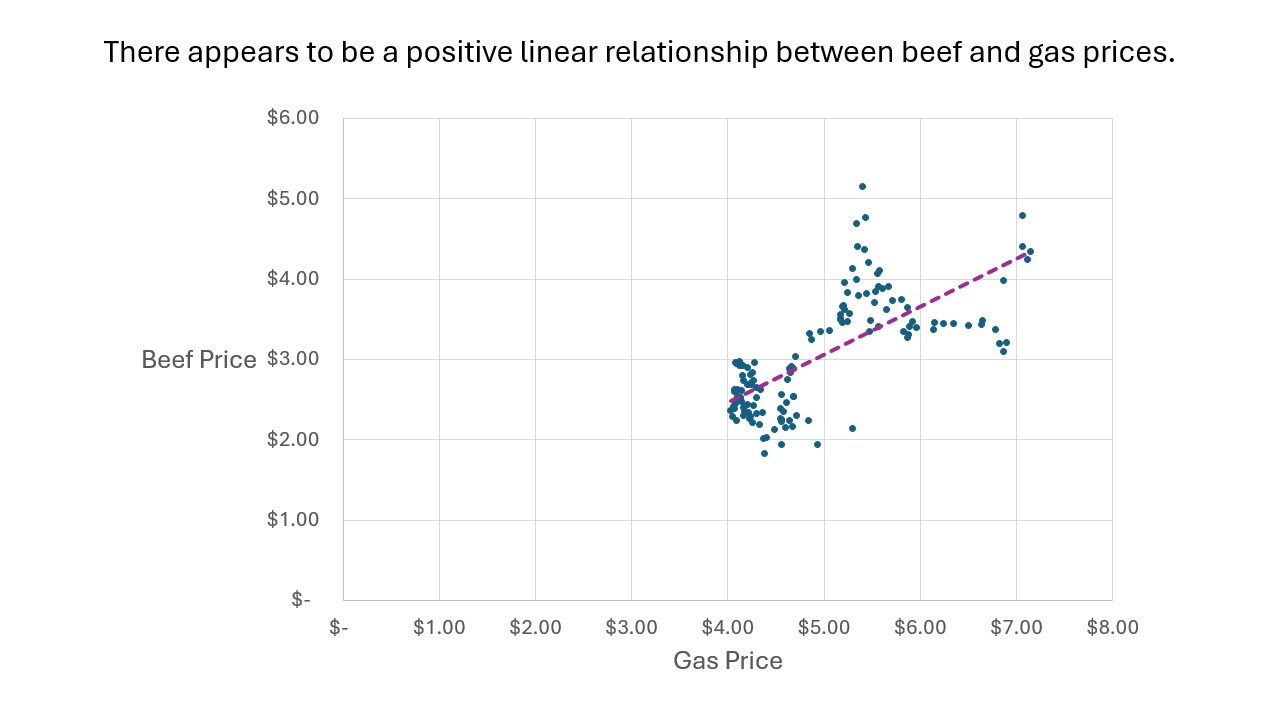
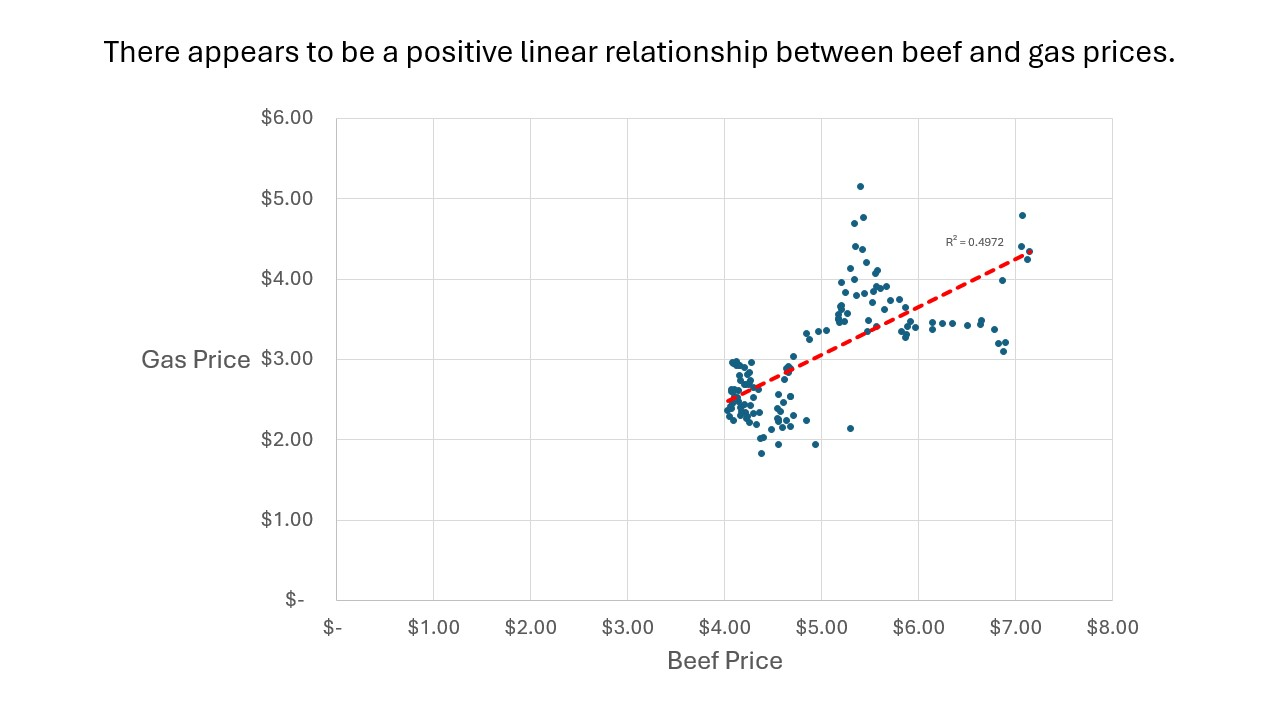
s

diff --git a/docs/posts/Intro to IE Data Analysis Presentation/index.html b/docs/posts/Intro to IE Data Analysis Presentation/index.html
@@ -188,7 +188,7 @@ ul.task-list li input[type="checkbox"] {
 </div>
 <div class="quarto-figure quarto-figure-center">
 <figure class="figure">
-<p><img src="Slide4.jpg" class="img-fluid figure-img"></p>
+<p><img src=".png" class="img-fluid figure-img"></p>
 <figcaption>Does all uncooked ground beef and all types of gas move together in price? We found this question interesting because these are two common things that people buy that seem to have gone up in price. To construct this scatter plot, we first filtered the data to show only all uncooked ground beef and all types of gas. Then, we used the beef price for the y-axis and the gas price for the x-axis to show the relationship between the two. Next, we cleaned up the graph and added the correct axis titles to improve readability. Finally, we added a linear trend line to show that beef and gas prices move together in a positive linear way, and the R2 value to represent the strength of the relationship.</figcaption>
 </figure>
 </div>

diff --git a/docs/projects.html b/docs/projects.html
@@ -261,7 +261,7 @@ Oct 1, 2026
 </div>
 </div></a>
 </div>
[2 lines of base64/hex data omitted]
 <a href="./posts/Intro to IE Data Analysis Presentation/index.html" class="quarto-grid-link">
 <div class="quarto-grid-item card h-100 card-left">
 <p class="card-img-top">
